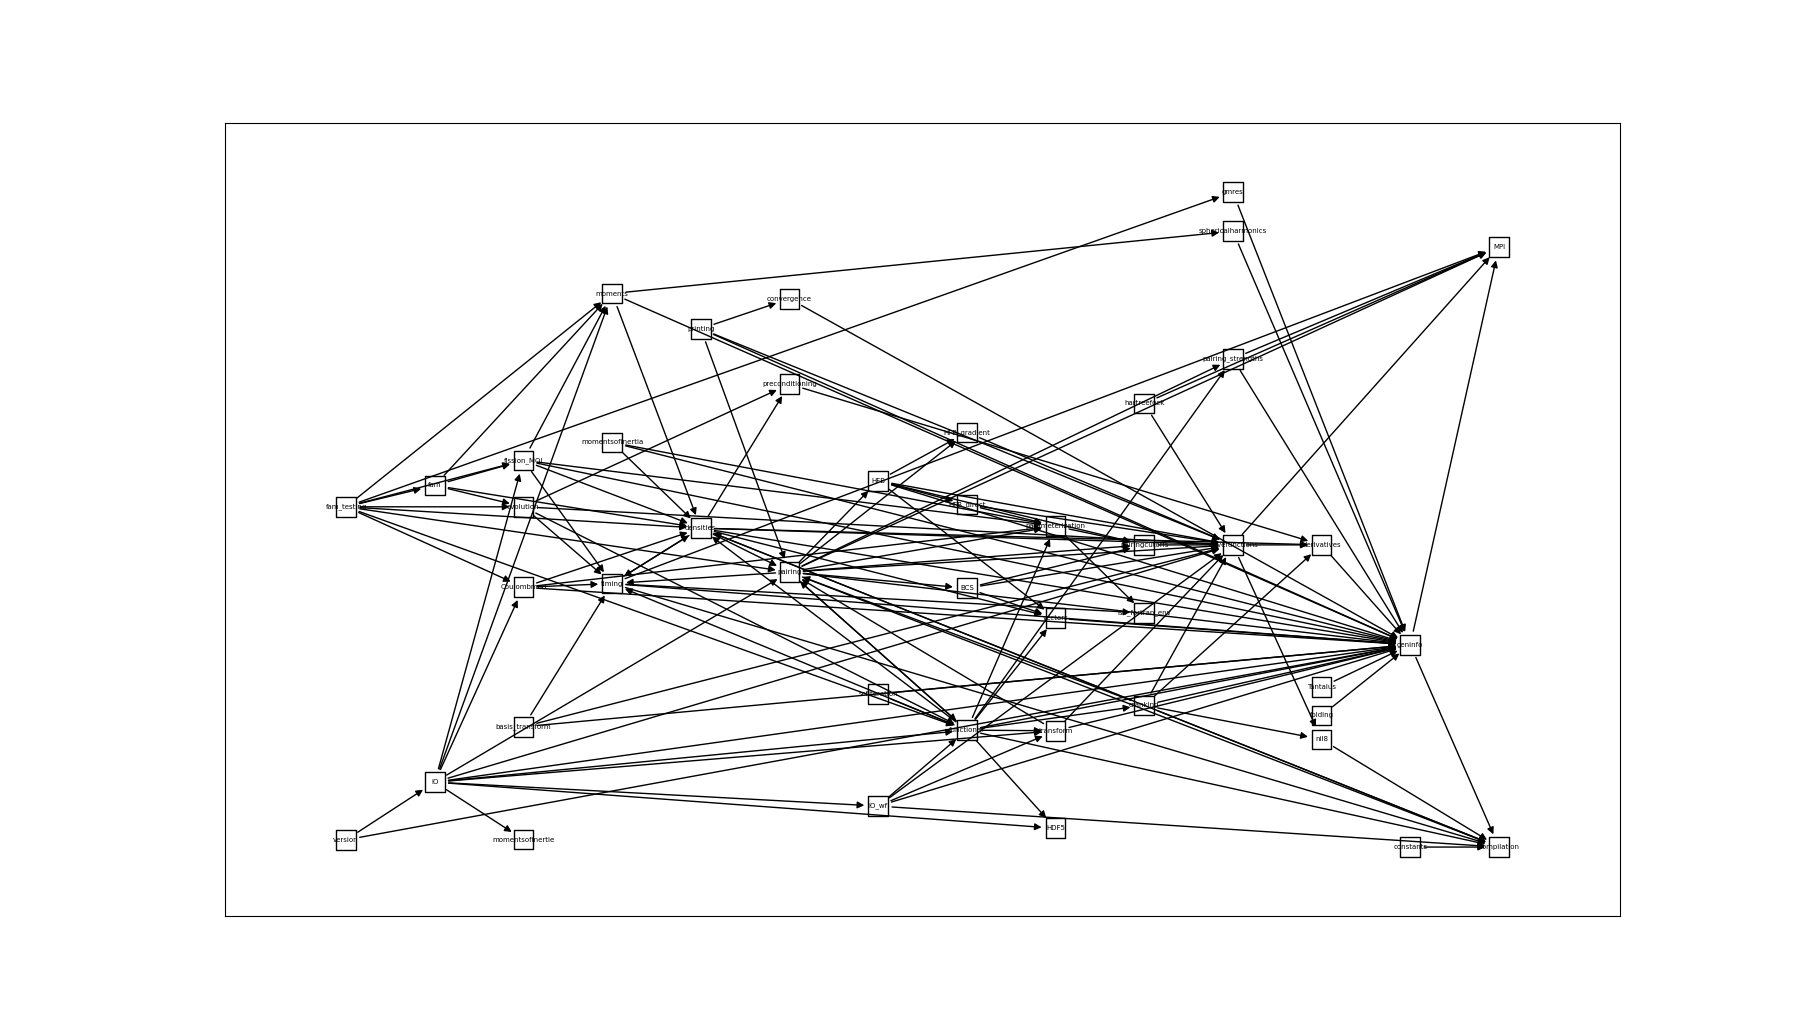
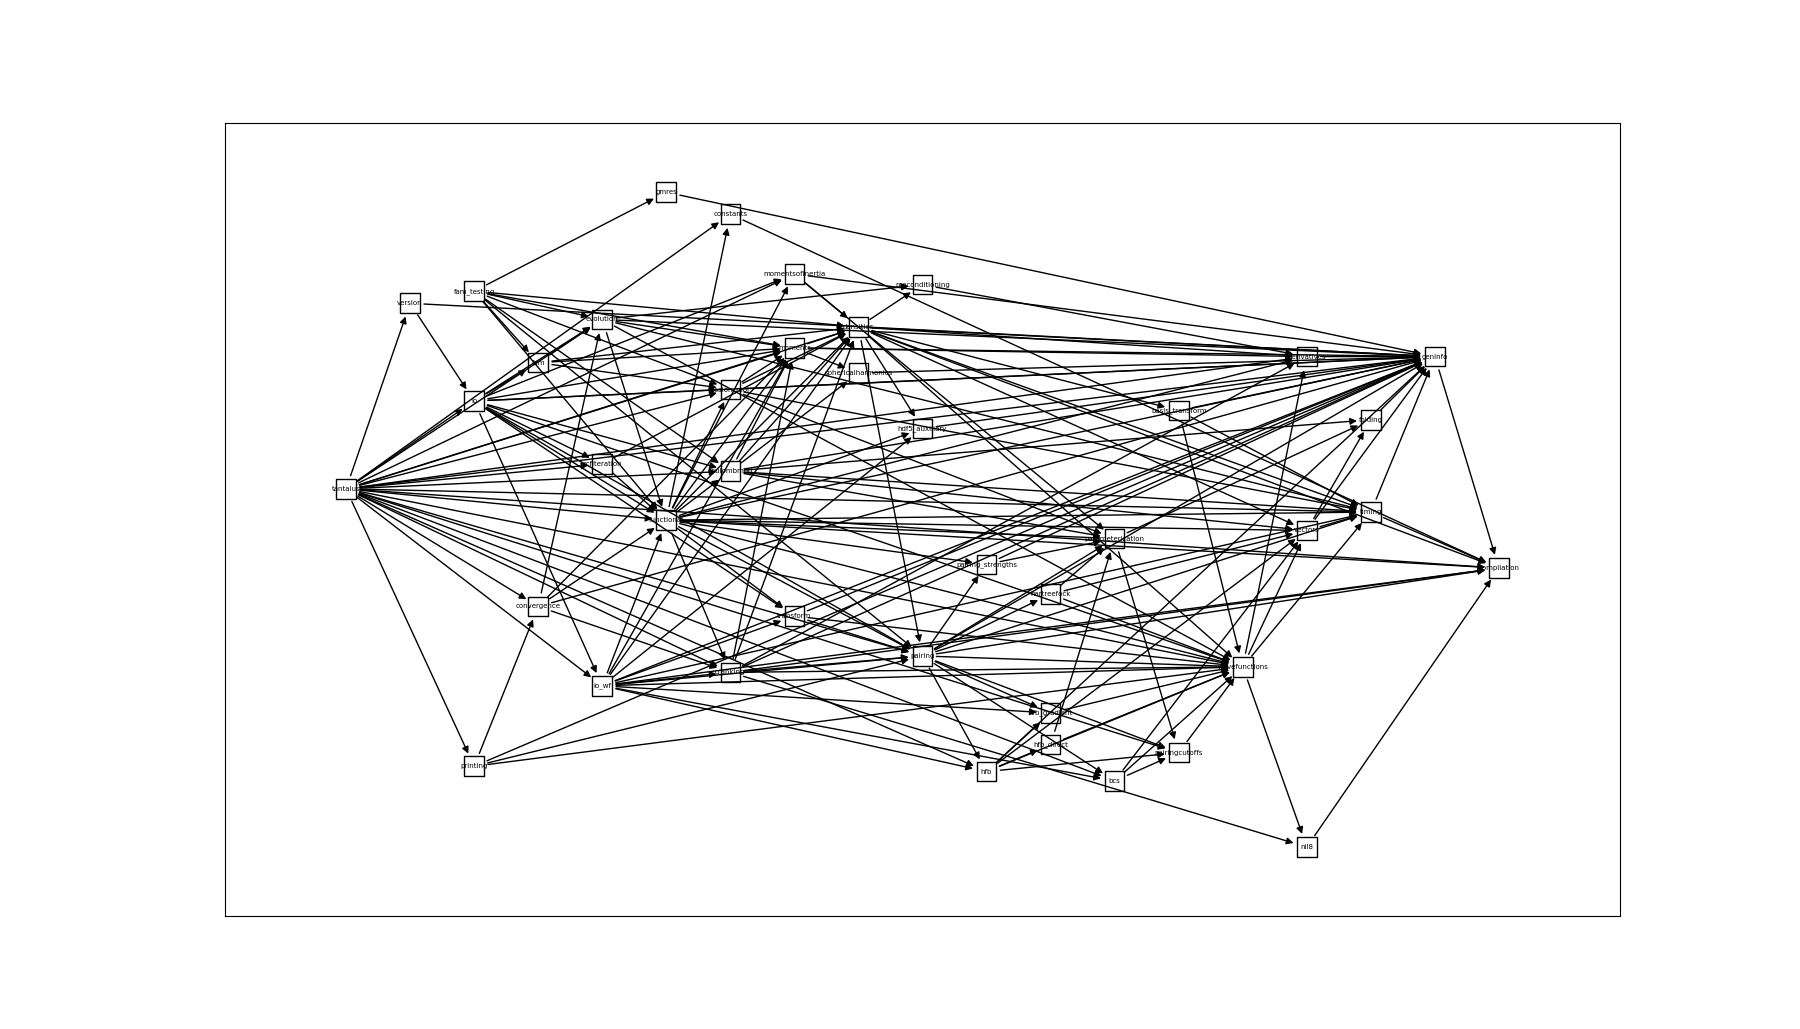
Add analyze_module_use.py

diff --git a/MOCCaPy/analyze_module_use.py b/MOCCaPy/analyze_module_use.py
@@ -1,0 +1,257 @@
+# find all modules and their uses in the files in the `src` dir
+# all modules are printed in lower case (Fortran names are case insensitive)
+from pathlib import Path
+from copy import copy
+from collections import Counter
+import matplotlib.pyplot as plt
+import networkx as nx
+from networkx.drawing.nx_pydot import graphviz_layout
+
+import numpy as np
+
+EXTERNAL_MODULES = ['mpi', 'hdf5', 'iso_fortran_env']
+
+def read_edges_from_src_f90(exclude_external_modules):
+    src_dir = (Path(__file__).parent.parent/'src').resolve()
+    # print(src_dir)
+
+    module_uses = {}
+    for p in src_dir.glob('*.f90'):
+        # if p.name == 'fam_testing.f90':
+        print(p)
+        if p.name == 'run_single.f90':
+            print()
+        with open(p, 'r') as f90:
+            m = None
+            lines = f90.readlines()
+            for line in lines:
+                line = line.strip()
+                if line.startswith('module') and not line.startswith('module procedure'):
+                    print(line)
+                    m = line[6:].strip().split(' ')[0].lower()
+                    if not m in module_uses:
+                        module_uses[m] = set()
+                elif line.startswith('use'):
+                    print(line)
+                    if not m is None:
+                        u = line[3:].strip().split(',')[0].split(' ')[0].lower()
+                        if not (exclude_external_modules and u in EXTERNAL_MODULES):
+                            module_uses[m].add(u)
+
+            if m is None:
+                print('this file does not define a module')
+            else:
+                print(m, '->', module_uses[m])
+            print()
+    edges = []
+    for m, uses in module_uses.items():
+        for u in uses:
+            edges.append((m, u))
+    return edges
+
+def get_all_right_extensions(connections, edges):
+    results = copy(connections)
+    done = False
+    while not done:
+        done = True
+        print('*')
+        for ic,c in enumerate(results):
+            print('+',end='')
+            if isinstance(c, tuple):
+                c = list(c)
+            result = []
+            for e in edges:
+                # print(connection,e)
+                if c[-1] == e[0]:
+                    extended = copy(c)
+                    extended.append(e[1])
+                    result.append(extended)
+            if result:
+                done = False
+                results[ic] = result
+            else:
+                results[ic] = [c]
+        # Flatten results
+        flattened = []
+        for r in results:
+            flattened.extend(r)
+        results = flattened
+    return results
+
+def get_all_left_extensions(connections, edges):
+    results = copy(connections)
+    done = False
+    while not done:
+        done = True
+        print('*')
+        for ic,c in enumerate(results):
+            print('+',end='')
+            if isinstance(c, tuple):
+                c = list(c)
+            result = []
+            for e in edges:
+                # print(connection,e)
+                if c[0] == e[1]:
+                    extended = copy(c)
+                    extended.insert(0,e[0])
+                    result.append(extended)
+            if result:
+                done = False
+                results[ic] = result
+            else:
+                results[ic] = [c]
+        # Flatten results
+        flattened = []
+        for r in results:
+            flattened.extend(r)
+        results = flattened
+    return results
+
+
+def unique(results):
+    u = set()
+    for r in results:
+        u.add(tuple(r))
+    return u
+
+def get_nodes(edges):
+    nodes = set()
+    for e in edges:
+        nodes.add(e[0])
+        nodes.add(e[1])
+    return list(nodes)
+
+def encode_edges(edges, nodes):
+    e_edges = []
+    for e in edges:
+        e0 = nodes.index(e[0])
+        e1 = nodes.index(e[1])
+        e_edges.append([e0,e1])
+    return e_edges
+
+def matrix_representation(edges, nodes):
+
+
+    # empty columns indentify modules at the top of a connection
+    # empty rows indentify modules at the bottom of a connection
+
+    n = len(nodes)
+    C = np.zeros((n,n),dtype=int)
+    for e in edges:
+        C[e[0],e[1]] = 1
+    return C
+
+def get_connections(C):
+    finished = []
+    N = C.shape[0]
+    # find empty columns
+    for icol in range(N):
+        column_sum = sum(C[:,icol])
+        if column_sum == 0:
+            # icol is a starting point
+            # find all paths starting with icol
+            paths = [[icol]]
+            while paths:
+                p = paths.pop()
+                prev = p[-1]
+                next = [j for j in range(N) if C[prev,j] == 1]
+
+                if next:
+                    for n in next:
+                        pn = p.copy()
+                        pn.append(n)
+                        paths.append(pn)
+                else:
+                    finished.append(p)
+    return finished
+
+
+def main(exclude_external_modules=True):
+    edges = read_edges_from_src_f90(exclude_external_modules=exclude_external_modules)
+
+    for i,e in enumerate(edges):
+        print(i,e)
+    edges = list(set(edges))
+    for i,e in enumerate(edges):
+        print(i,e)
+    nodes = get_nodes(edges)
+    print(nodes)
+    e_edges = encode_edges(edges, nodes)
+    for i,e in enumerate(e_edges):
+        print(i,e)
+    C = matrix_representation(e_edges, nodes)
+    N = C.shape[0]
+    print(C)
+    colsum = np.sum(C,0)
+    print(f"{colsum=}")
+    for i in range(N):
+        name = nodes[i] if colsum[i] == 0 else ''
+        print(i,colsum[i],name)
+    rowsum = np.sum(C,1)
+    print(f"{rowsum=}")
+    for i in range(N):
+        name = nodes[i] if rowsum[i] == 0 else ''
+        print(i,rowsum[i],name)
+
+    print("looking for 'use constants")
+    for e in edges:
+        if e[1] == 'constants':
+            print(e)
+
+    connections = get_connections(C)
+    print(connections)
+    print(len(connections))
+    unique_connections = set()
+    for c in connections:
+        unique_connections.add(tuple(c))
+    print(len(unique_connections))
+
+    histogram = {}
+    for c in connections:
+        length = len(c)
+        if length in histogram:
+            histogram[length] += 1
+        else:
+            histogram[length] = 1
+    for k,v in histogram.items():
+        print(k,v)
+    for c in connections:
+        cntr = Counter(c)
+        if len(cntr) < len(c):
+            print(cntr, c)
+    else:
+        print('no circular references')
+
+    G = nx.DiGraph()
+    G.add_edges_from(edges)
+    pos = graphviz_layout(G, prog="dot")
+    for k, v in pos.items():
+        pos[k] = (-v[1], v[0])
+
+    nx.draw_networkx_nodes(G, pos=pos, node_shape='s', node_size=200,
+                           node_color='none', edgecolors='k')
+    nx.draw_networkx_edges(G, pos=pos,
+                           node_shape='s', width=1, node_size=200)
+    nx.draw_networkx_labels(G, pos=pos, font_size=5)
+
+    plt.show()
+
+    # this works but is terribly slow.
+    # r = get_all_right_extensions(list(edges), edges)
+    # # print(r)
+    # r = get_all_left_extensions(r, edges)
+    # # print(r)
+    # r = unique(r)
+    # print(r)
+
+def small():
+    # to test get_connections
+    edges =[(0,1),(1,2),(2,3),(2,4)]
+    nodes = get_nodes(edges)
+    C = matrix_representation(edges, nodes)
+    print(C)
+    connections = get_connections(C)
+    print(connections)
+
+if __name__ == '__main__':
+    main()

diff --git a/MOCCaPy/module_dependencies.py b/MOCCaPy/module_dependencies.py
@@ -1,6 +1,5 @@
 import matplotlib.pyplot as plt
 import networkx as nx
-import pydot
 from networkx.drawing.nx_pydot import graphviz_layout
 
 G = nx.DiGraph()

diff --git a/MOCCaPy/readme.md b/MOCCaPy/readme.md
@@ -4,6 +4,12 @@ At the 4th MOCCa user meeting wouter presented an example script of how a MOCCaP
 
 ## f90 code overview
 
+### Observation
+
+Modules contain a lot of data: that turns them more or less into classes. but since these data are not private they can be modified in every module that uses it. A good recipe for spaghetti code.
+
+### Module structure
+
 | .f90 file              | module             | use                                                                                 |
 |------------------------|--------------------|-------------------------------------------------------------------------------------|
 | basis_transform.f90    | basis_transform    | use geninfo                                                                         |
@@ -153,3 +159,60 @@ At the 4th MOCCa user meeting wouter presented an example script of how a MOCCaP
 |                        |                    | (use MPI)                                                                           |
 
 ![module dependency graph](module_dependencies.png)
+
+k wou een zicht krijgen hoe de modules in je code van elkaar afhangen. Dat bleek al snel een taak die manueel niet haalbaar was.
+Dat gaf de graph hierboven (slecht leesbaar – ik geef het toe).
+Er zijn twee modules aan de top: tantalus en fam_testing, en  aan de bodem: compilation, iso_fortran_env, mpi en hdf5. In totaal zijn er 206 links tussen 44 modules (3 modules zijn extern mpi, hdf5 en iso_fortran_env). Het totaal aantal paden tussen die 2 aan de top en de 4 onderaan is 171931 (!)
+Hier is het histogram van de lengte van die paden
+2 1
+3 24
+4 220
+5 871
+6 2580
+7 5783
+8 10884
+9 17615
+10 24665
+11 29259
+12 28920
+13 23416
+14 15317
+15 7971
+16 3226
+17 969
+18 192
+19 18
+Er zijn geen circular references.
+ 
+de enige manier waarop ik dat kan interpreteren is dat alles van alles afhangt. Ik vind deze resultaten in hoge mate verwarrend.
+
+ik doe de analyse opnieuw maar verwijder de links naar externe modules: mpi hdf5 en iso_fortran_env
+
+Dat reduceert het aantal paden aanzienlijk, maar het is nog steeds groot: 56536
+het histogram van de lengte van de paden is nu
+2 1
+3 11
+4 75
+5 285
+6 814
+7 1784
+8 3370
+9 5574
+10 8004
+11 9692
+12 9698
+13 7898
+14 5169
+15 2684
+16 1083
+17 324
+18 64
+19 6
+
+ik vind dit qua structuur hoogst verwarrend.
+
+## Conclusion 
+
+It appears to me that reusing the fortran code will be nearly impossible due to the combination of data and subprograms in modules.
+
+At this point the only thing I can imagine is to take the entire Tantalus module as is (perhaps augment it to allow accessing its internal data structures) into a python module and use that for validation purposes only, while at the same time redoing everything in python (where possible and efficient) or Fortran (if needed for performance reasons). 
